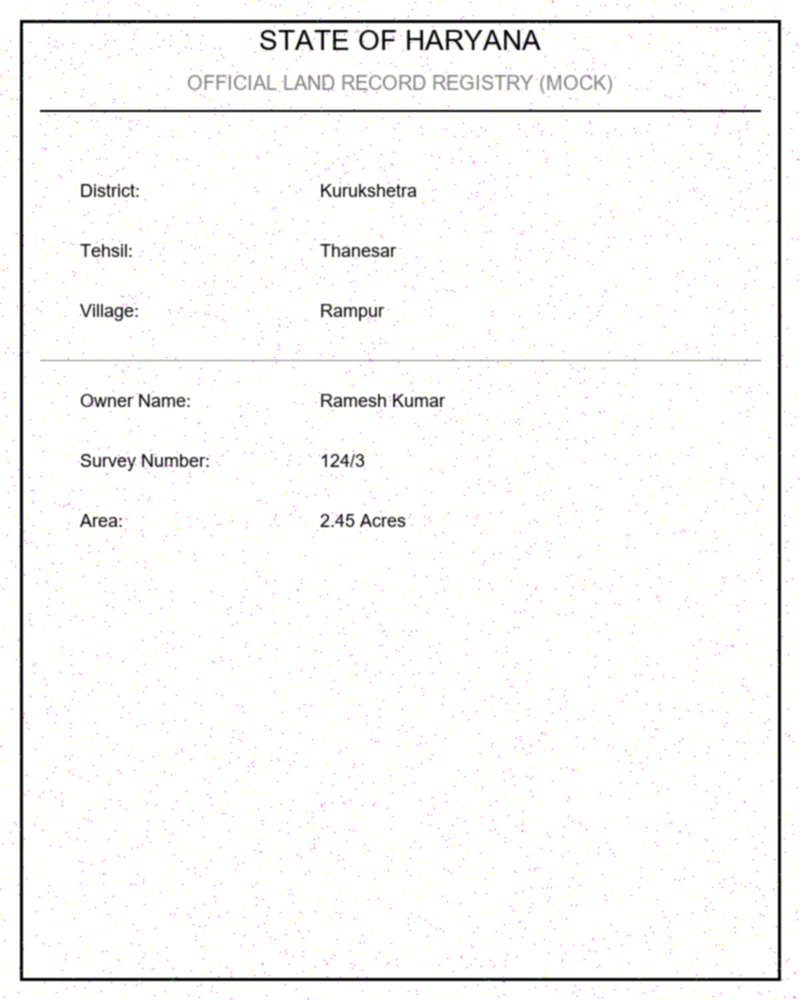
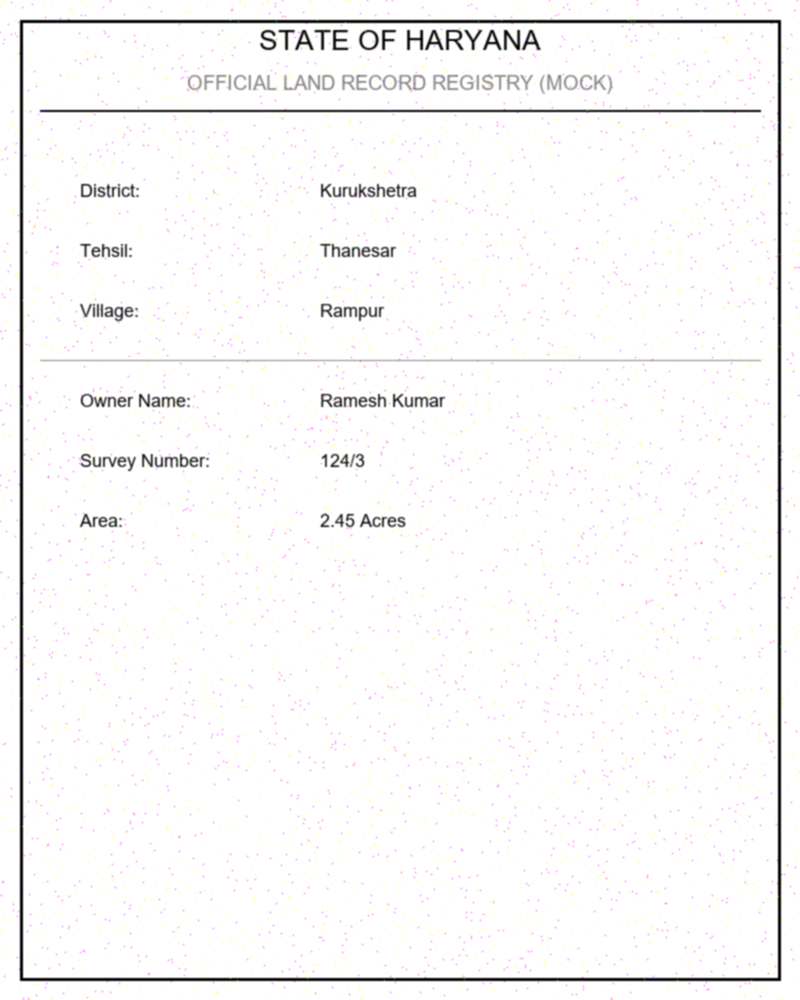
docs: add database roadmap and project files

diff --git a/frontend/src/components/FieldCard.tsx b/frontend/src/components/FieldCard.tsx
@@ -10,8 +10,6 @@ interface FieldCardProps {
   onSelect: () => void;
   onCorrect: (newValue: string) => Promise<void>;
   onVerify: () => Promise<void>;
-  canCorrect: boolean;
-  canVerify: boolean;
 }
 
 export const FieldCard: React.FC<FieldCardProps> = ({
@@ -20,8 +18,6 @@ export const FieldCard: React.FC<FieldCardProps> = ({
   onSelect,
   onCorrect,
   onVerify,
-  canCorrect,
-  canVerify,
 }) => {
   const [isEditing, setIsEditing] = useState(false);
   const [editValue, setEditValue] = useState(field.value || "");
@@ -178,7 +174,6 @@ export const FieldCard: React.FC<FieldCardProps> = ({
 
       {/* Audit Action Controls */}
       {!isEditing && (
-      {!isEditing && (canCorrect || (canVerify && field.verification_status !== "VERIFIED")) && (
         <div className="flex gap-3 mt-3 pt-2.5 border-t border-slate-100 justify-end" onClick={(e) => e.stopPropagation()}>
           <button
             onClick={() => setIsEditing(true)}
@@ -187,18 +182,8 @@ export const FieldCard: React.FC<FieldCardProps> = ({
           >
             <Edit2 className="w-3 h-3" /> Correct
           </button>
-          {canCorrect && (
-            <button
-              onClick={() => setIsEditing(true)}
-              disabled={isSubmitting}
-              className="text-xs text-blue-600 hover:text-blue-800 font-bold flex items-center gap-1 transition-colors cursor-pointer"
-            >
-              <Edit2 className="w-3 h-3" /> Correct
-            </button>
-          )}
           
           {field.verification_status !== "VERIFIED" && (
-          {canVerify && field.verification_status !== "VERIFIED" && (
             <button
               onClick={handleVerifyClick}
               disabled={isSubmitting}

diff --git a/frontend/src/services/api.ts b/frontend/src/services/api.ts
@@ -91,14 +91,3 @@ export async function verifyDocument(recordId: string): Promise<ExtractionResult
   return res.json();
 }
 
-export async function getAuditLogs(recordId: string): Promise<any[]> {
-  const res = await fetch(`${BASE_URL}/records/${recordId}/audit-logs`);
-
-  if (!res.ok) {
-    const err = await res.json().catch(() => ({ detail: "Failed to fetch audit logs" }));
-    throw new Error(err.detail || "Failed to fetch audit logs");
-  }
-
-  return res.json();
-}
-
